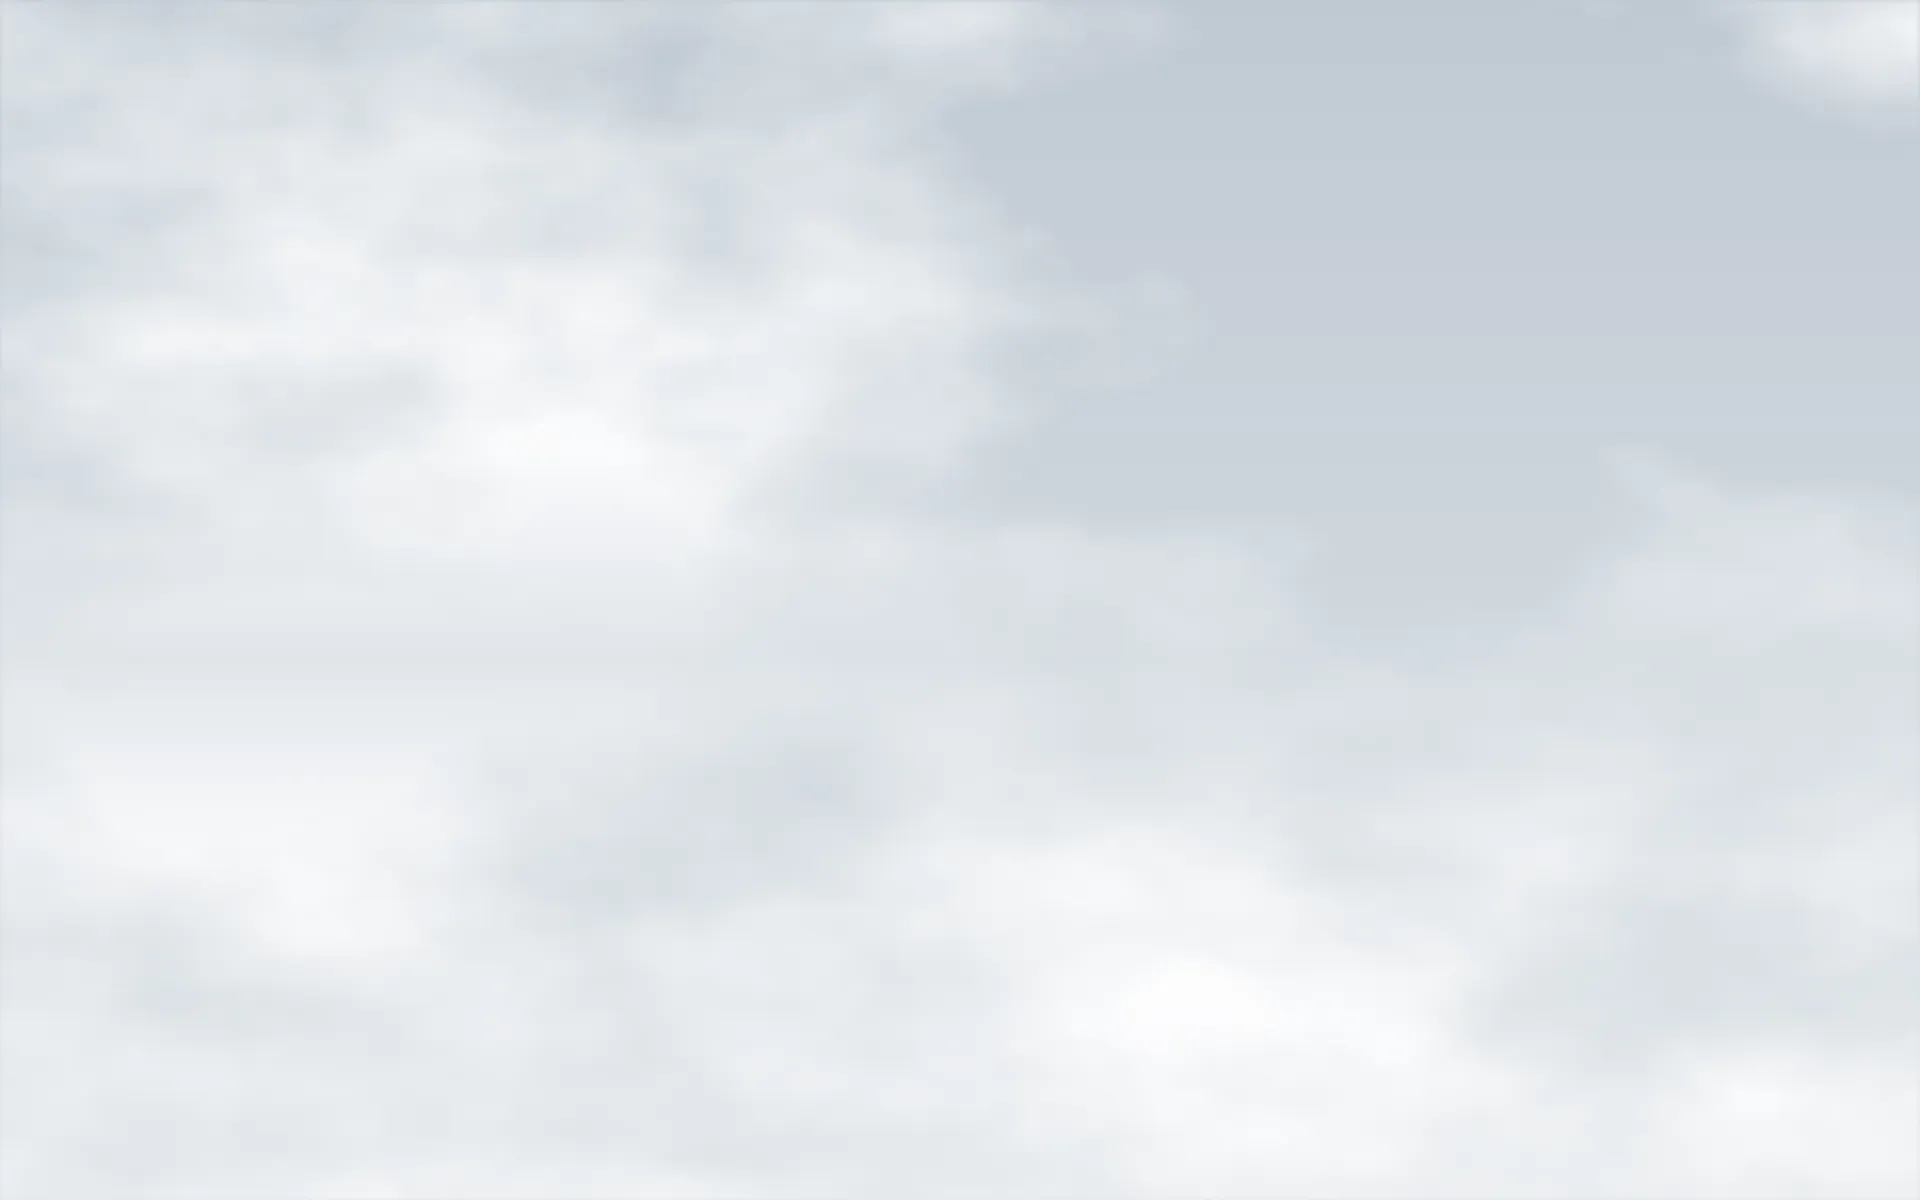
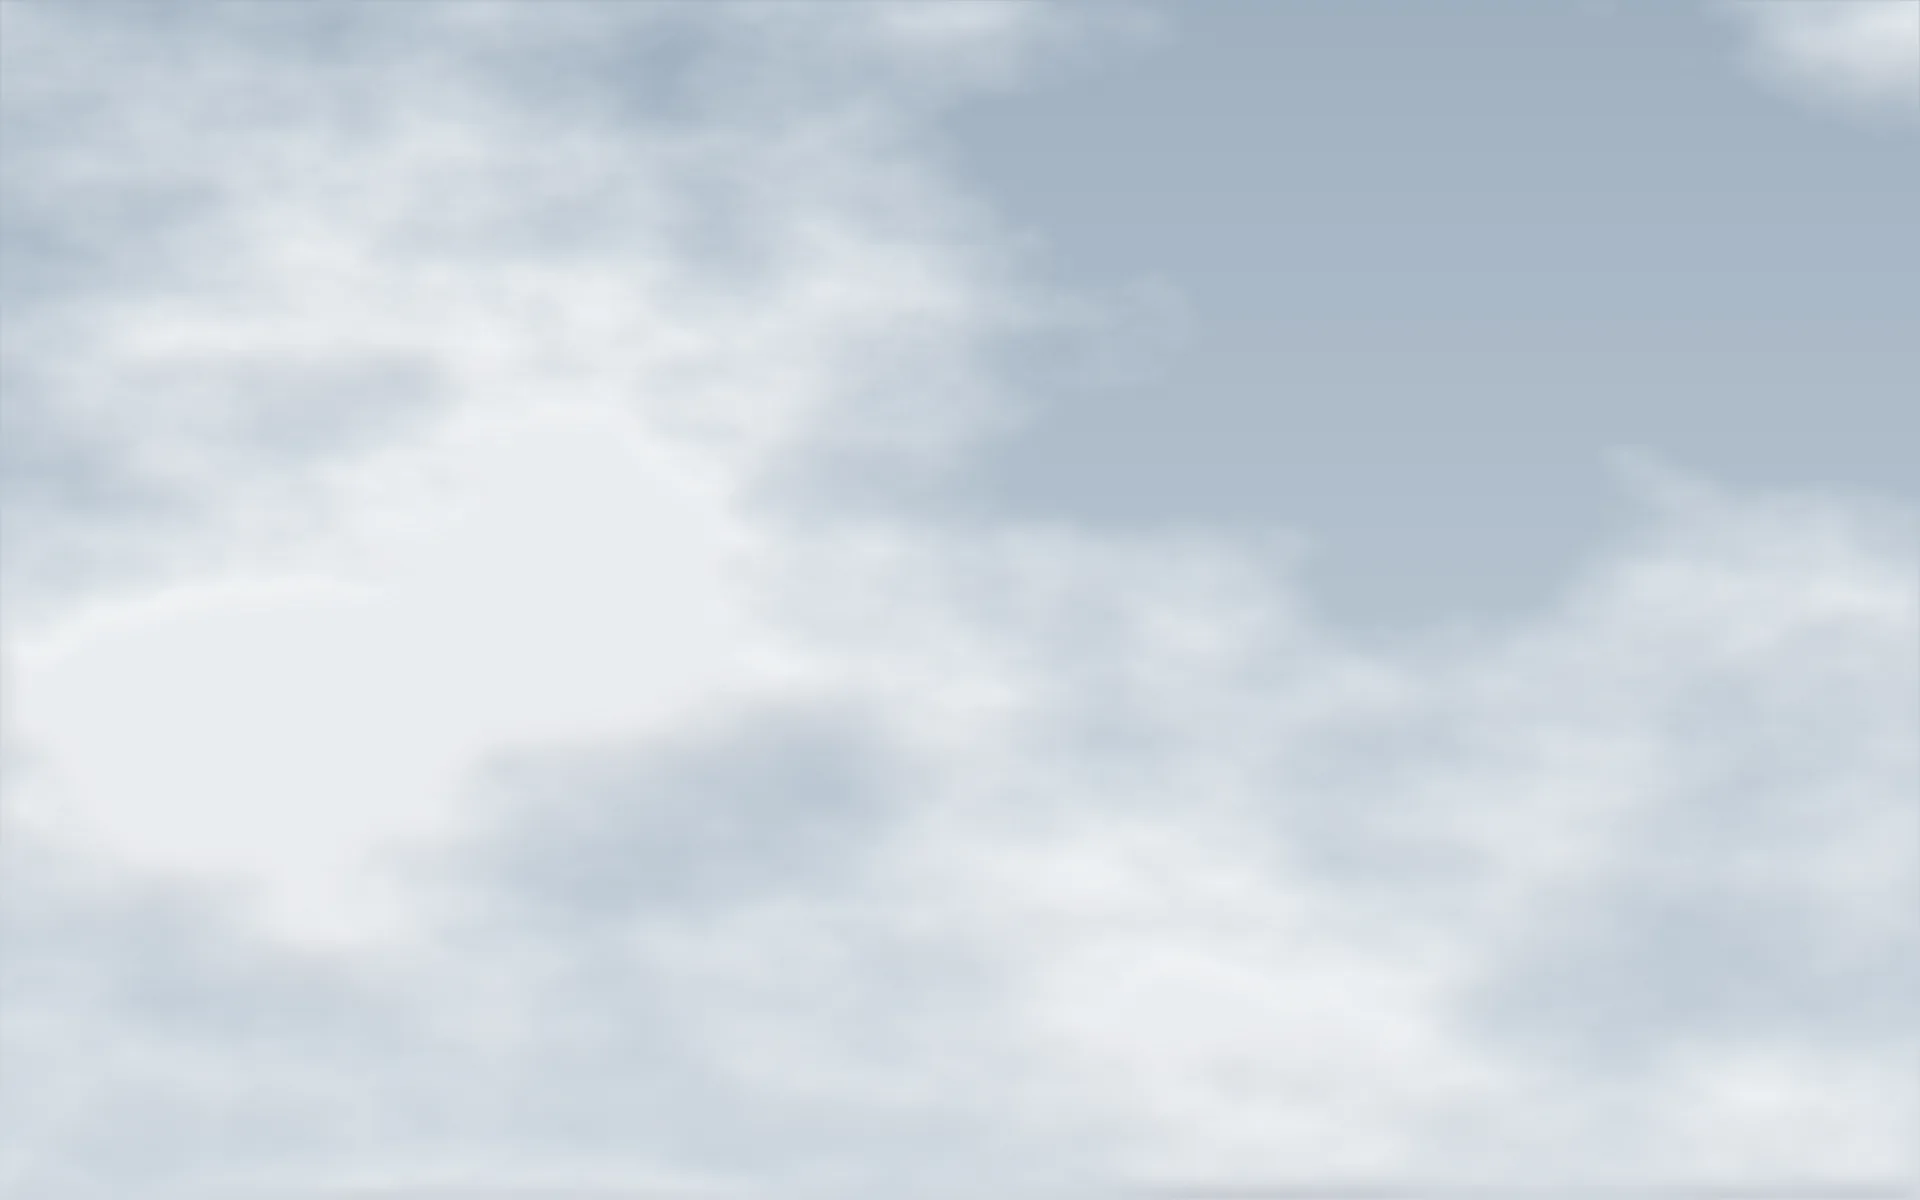
UI: clearer cloud background (deeper sky, brighter clouds, no faded band)

diff --git a/docs/design/clouds-background.svg.html b/docs/design/clouds-background.svg.html
@@ -2,7 +2,7 @@
 <svg width="1920" height="1200" xmlns="http://www.w3.org/2000/svg">
   <defs>
     <linearGradient id="sky" x1="0" y1="0" x2="0" y2="1">
-      <stop offset="0" stop-color="#bfc9d2"/><stop offset="1" stop-color="#dfe4e8"/>
+      <stop offset="0" stop-color="#9fb0c0"/><stop offset="1" stop-color="#c9d3dc"/>
     </linearGradient>
     <!-- where clouds may appear: heavier at the top-right and bottom-left, light in the middle -->
     <radialGradient id="m1" cx="0.8" cy="0.1" r="0.55"><stop offset="0" stop-color="#fff"/><stop offset="1" stop-color="#000"/></radialGradient>
@@ -25,23 +25,23 @@
       <feTurbulence type="fractalNoise" baseFrequency="0.0011 0.0019" numOctaves="7" seed="23" result="noise"/>
       <!-- cloud cover from the noise: only the denser part becomes cloud -->
       <feColorMatrix in="noise" type="matrix" result="cover"
-        values="0 0 0 0 1  0 0 0 0 1  0 0 0 0 1  3.6 0 0 0 -1.42"/>
+        values="0 0 0 0 1  0 0 0 0 1  0 0 0 0 1  4.2 0 0 0 -1.68"/>
       <!-- light from above gives the puffs volume -->
-      <feGaussianBlur in="cover" stdDeviation="22" result="soft"/>
-      <feDiffuseLighting in="soft" surfaceScale="9" diffuseConstant="1.1" lighting-color="#ffffff" result="lit">
+      <feGaussianBlur in="cover" stdDeviation="14" result="soft"/>
+      <feDiffuseLighting in="soft" surfaceScale="12" diffuseConstant="1.15" lighting-color="#ffffff" result="lit">
         <feDistantLight azimuth="270" elevation="55"/>
       </feDiffuseLighting>
       <feComposite in="lit" in2="cover" operator="in" result="litClouds"/>
       <feComponentTransfer in="litClouds" result="tone">
-        <feFuncR type="linear" slope="0.22" intercept="0.80"/>
-        <feFuncG type="linear" slope="0.21" intercept="0.81"/>
-        <feFuncB type="linear" slope="0.19" intercept="0.83"/>
+        <feFuncR type="linear" slope="0.32" intercept="0.62"/>
+        <feFuncG type="linear" slope="0.31" intercept="0.64"/>
+        <feFuncB type="linear" slope="0.28" intercept="0.68"/>
       </feComponentTransfer>
-      <feGaussianBlur in="tone" stdDeviation="2.5"/>
+      <feGaussianBlur in="tone" stdDeviation="1.2"/>
     </filter>
   </defs>
   <rect width="1920" height="1200" fill="url(#sky)"/>
-  <g mask="url(#band-mask)">
+  <g>
     <rect width="1920" height="1200" filter="url(#clouds)"/>
   </g>
 </svg></body></html>
